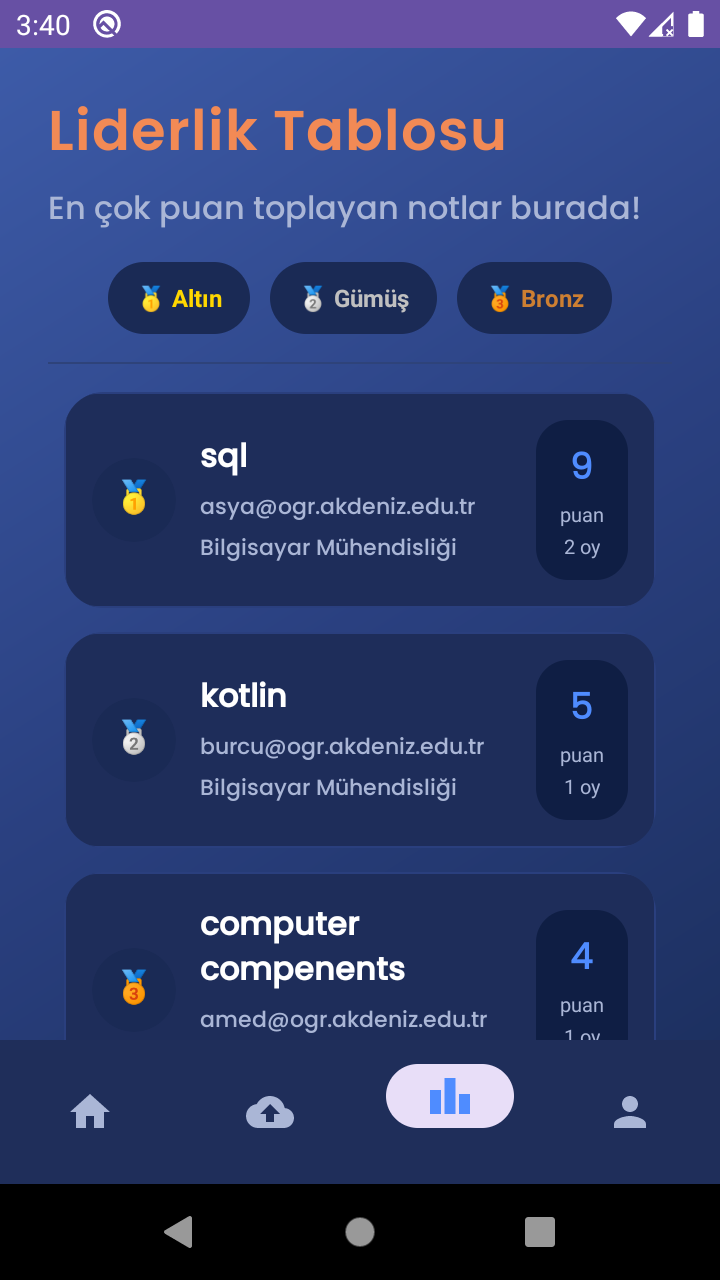
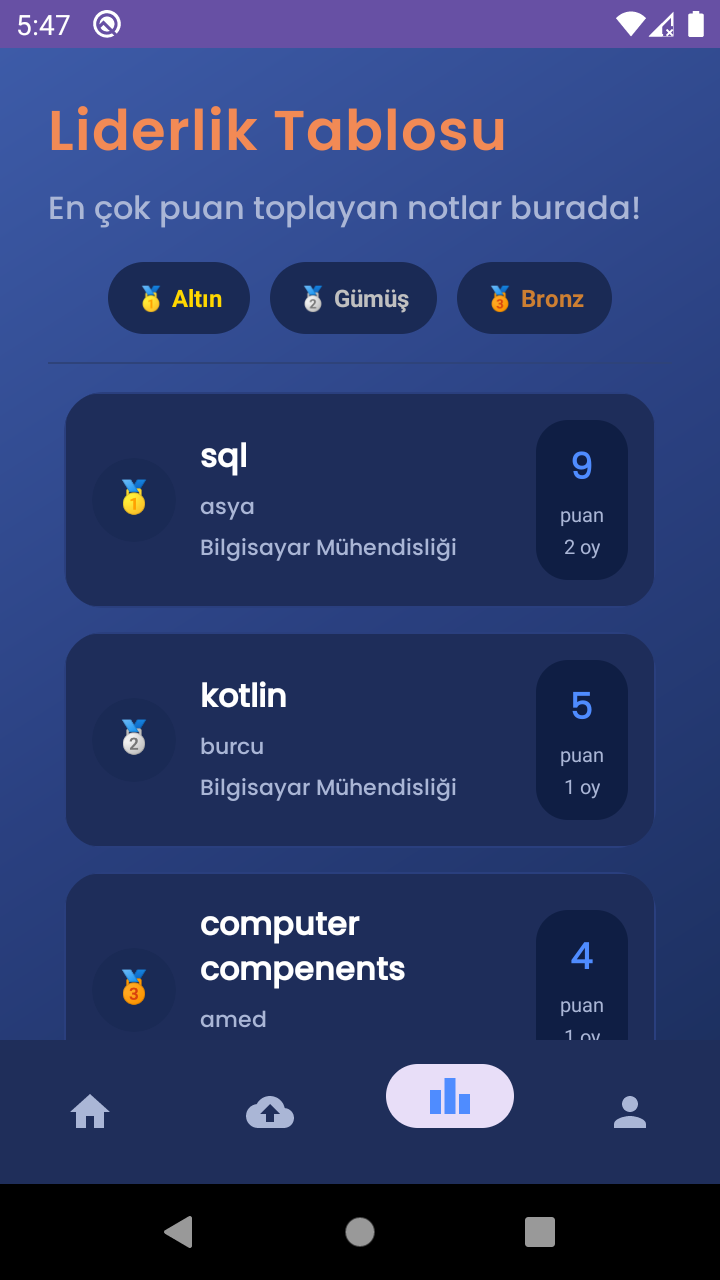
fix: show uploader names consistently instead of full email addresses
PostAdapter masked the address with substringBefore(@), but
LeaderboardAdapter and NoteDetailFragment printed the full email, so the
masking hid nothing - the same address was visible one tab away.

Moves the rule into a single String.uploaderName() extension, exposed as a
computed uploaderName on Post and LeaderboardEntry, and uses it in all three
places. The profile screen still shows the full address on purpose: the point
is not hiding a user's own email from themselves.

Renames the view ids from tvEmail/tvUploaderEmail to tvUploader, since they no
longer display an email.

Verified on the emulator: the leaderboard now reads asya rather than
asya@ogr.akdeniz.edu.tr, with placings, scores and vote counts unchanged.
README screenshot updated to match.

diff --git a/app/src/main/java/duygu/yilmaz/campusnote/data/model/UploaderName.kt b/app/src/main/java/duygu/yilmaz/campusnote/data/model/UploaderName.kt
@@ -1,0 +1,13 @@
+package duygu.yilmaz.campusnote.data.model
+
+/**
+ * E-posta adresinin `@` işaretinden önceki kısmı — başka kullanıcılara gösterilen ad.
+ *
+ * Bu maskeleme eskiden yalnızca [PostAdapter]'da, satır içinde yapılıyordu;
+ * liderlik tablosu ve not detayı aynı adresi tam hâliyle gösterdiği için maskeleme
+ * hiçbir şey saklamıyordu. Tek bir yerde tanımlanınca üç ekran da aynı davranıyor.
+ *
+ * Kullanıcının kendi profilinde e-postası bilinçli olarak tam gösterilir:
+ * maskelemenin amacı kişinin kendi adresini kendisinden saklamak değil.
+ */
+internal fun String.uploaderName(): String = substringBefore("@")

diff --git a/app/src/main/java/duygu/yilmaz/campusnote/ui/common/PostAdapter.kt b/app/src/main/java/duygu/yilmaz/campusnote/ui/common/PostAdapter.kt
@@ -33,7 +33,7 @@ class PostAdapter(
         with(holder.binding) {
             tvTitle.text = post.title
             tvDesc.text = post.desc
-            tvEmail.text = post.authorEmail.substringBefore("@")
+            tvUploader.text = post.uploaderName
             tvDept.text = post.department.take(3).uppercase()
             tvRating.text = String.format("%.1f", post.avgRating)
             tvRatingCount.text = root.context.getString(R.string.vote_count, post.ratingCount)

diff --git a/app/src/main/java/duygu/yilmaz/campusnote/ui/leaderboard/LeaderboardAdapter.kt b/app/src/main/java/duygu/yilmaz/campusnote/ui/leaderboard/LeaderboardAdapter.kt
@@ -47,7 +47,7 @@ class LeaderboardAdapter(
             tvRank.setTextColor(ContextCompat.getColor(context, rankColor))
 
             tvTitle.text = entry.title
-            tvEmail.text = entry.uploaderEmail
+            tvUploader.text = entry.uploaderName
             tvDept.text = entry.department
             tvScore.text = entry.ratingSum.toString()
             tvRatingCount.text = context.getString(R.string.vote_count, entry.ratingCount)

diff --git a/app/src/main/java/duygu/yilmaz/campusnote/ui/notedetail/NoteDetailFragment.kt b/app/src/main/java/duygu/yilmaz/campusnote/ui/notedetail/NoteDetailFragment.kt
@@ -110,7 +110,7 @@ class NoteDetailFragment : Fragment() {
     private fun fillViews(post: Post) = with(binding) {
         tvNoteTitle.text = post.title
         tvCourse.text = post.course
-        tvUploaderEmail.text = post.authorEmail
+        tvUploader.text = post.uploaderName
         tvDescription.text = post.desc
 
         if (post.tag.isEmpty()) {

diff --git a/app/src/main/java/duygu/yilmaz/campusnote/data/model/LeaderboardEntry.kt b/app/src/main/java/duygu/yilmaz/campusnote/data/model/LeaderboardEntry.kt
@@ -7,4 +7,7 @@ data class LeaderboardEntry(
     val department: String,
     val ratingCount: Long,
     val ratingSum: Long = 0L
-)
+) {
+    /** Notu yükleyen kişinin gösterilecek adı; tam e-posta arayüze çıkmaz. */
+    val uploaderName: String get() = uploaderEmail.uploaderName()
+}

diff --git a/app/src/main/java/duygu/yilmaz/campusnote/data/model/Post.kt b/app/src/main/java/duygu/yilmaz/campusnote/data/model/Post.kt
@@ -21,4 +21,7 @@ data class Post(
     val fileName: String = "",
     val fileType: String = "",
     val fileSize: Long = 0L
-)
+) {
+    /** Notu yükleyen kişinin gösterilecek adı; tam e-posta arayüze çıkmaz. */
+    val uploaderName: String get() = authorEmail.uploaderName()
+}

diff --git a/README.md b/README.md
@@ -29,6 +29,8 @@ into a portfolio piece.
 
 The leaderboard screenshot shows live Cloud Firestore data — notes ranked by total
 score, read through a real-time snapshot listener. The accounts in it are test data.
+Uploaders are shown by the local part of their address rather than the full email;
+see [`UploaderName.kt`](app/src/main/java/duygu/yilmaz/campusnote/data/model/UploaderName.kt).
 
 ---
 
